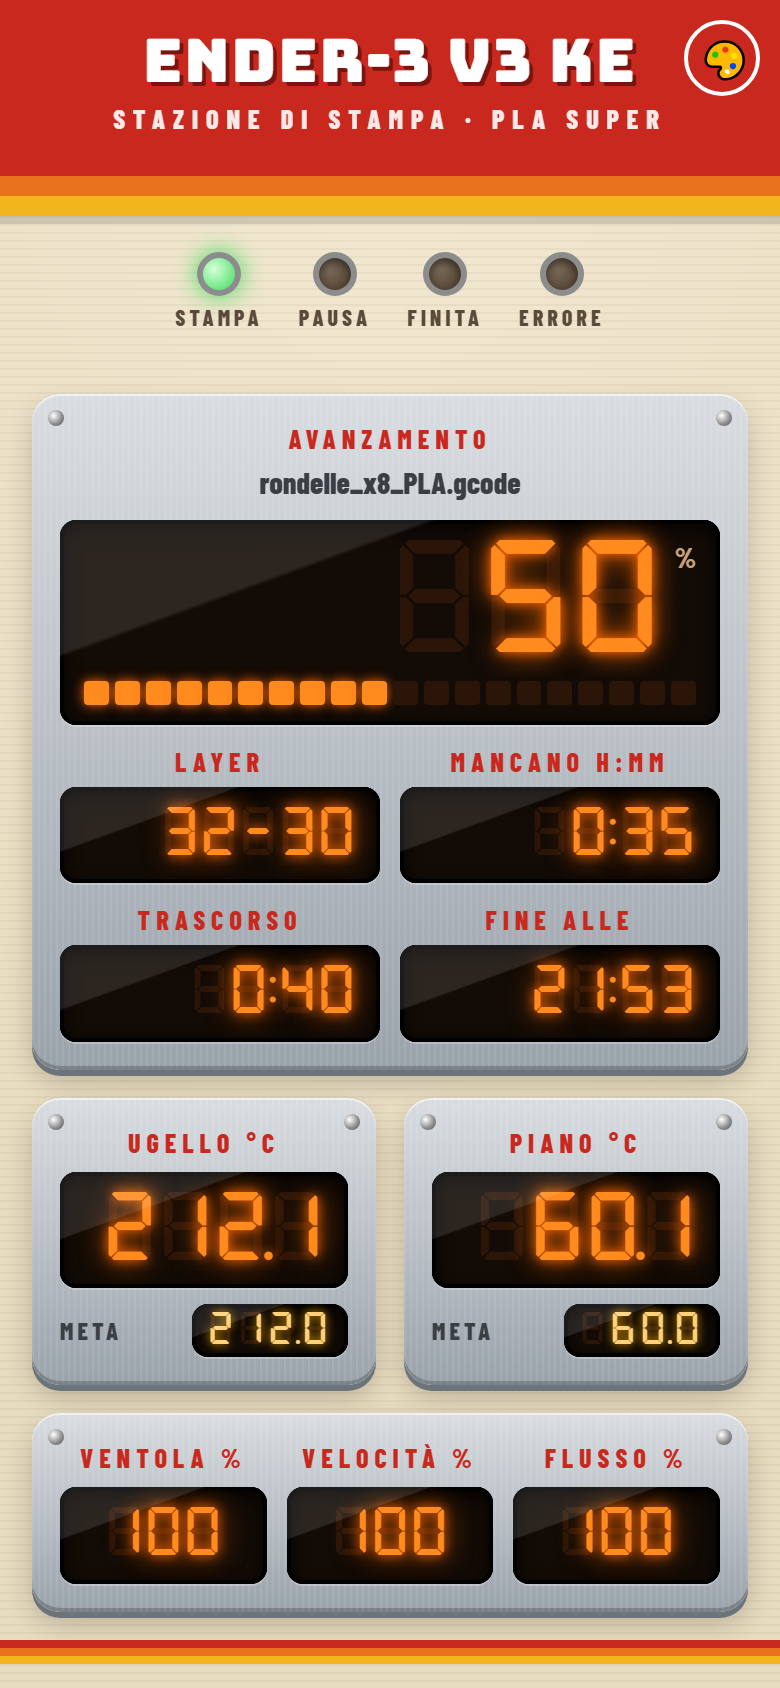
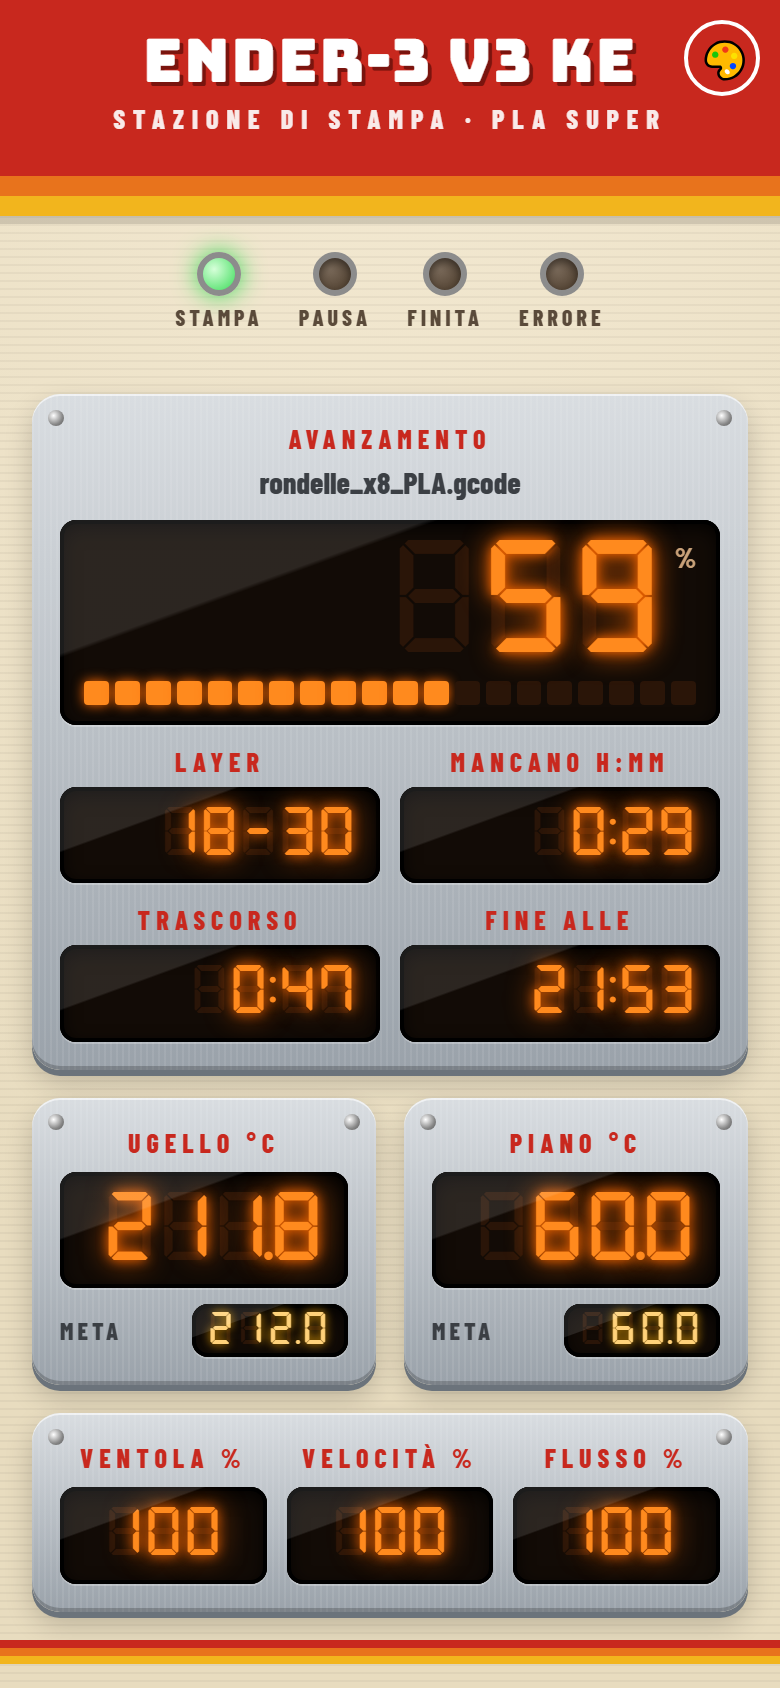
Layer corretto con i G-code di OrcaSlicer
Il firmware Creality, se non trova l'altezza layer nel G-code, calcola
il layer come Z / 0.1 mm e con layer da 0.2 mm il numero raddoppia
(es. 36 di 30). La pagina lo riconosce e stima il layer
dall'avanzamento sul totale. Schermate aggiornate.

diff --git a/index.html b/index.html
@@ -347,6 +347,21 @@ function lamps(st, err){
   $("l-err").classList.toggle("on", !!err || st === 3);
 }
 
+// Il firmware Creality, se nel G-code non trova l'altezza layer (es. file di OrcaSlicer),
+// calcola il layer come Z / 0.1 mm: con layer da 0.2 mm il numero raddoppia.
+// In quel caso stimiamo il layer dall'avanzamento sul totale (che invece e' giusto).
+function realLayer(p){
+  const L = num(s.layer), T = num(s.TotalLayer);
+  if (L == null || !T) return L ?? 0;
+  const z = num((String(s.curPosition || "").match(/Z:\s*(-?[\d.]+)/) || [])[1]);
+  const looksLikeZ = z != null && z > 0.5 && Math.abs(L - z * 10) <= 1.5;
+  if (looksLikeZ || L > T) {
+    if (s.state === 2) return T;                       // stampa finita
+    return Math.min(T, Math.max(1, Math.ceil(p / 100 * T)));
+  }
+  return Math.min(L, T);
+}
+
 function render(){
   const st = s.state, err = s.err && s.err.errcode;
   lamps(st, err);
@@ -355,7 +370,7 @@ function render(){
   const p = Math.max(0, Math.min(100, num(s.printProgress) ?? 0));
   seg("pct", p, 3);
   [...bar.children].forEach((b, i) => b.classList.toggle("on", i < Math.round(p / 5)));
-  seg("layer", (s.layer ?? 0) + "-" + (s.TotalLayer ?? 0));
+  seg("layer", realLayer(p) + "-" + (s.TotalLayer ?? 0));
   seg("left", hm(s.printLeftTime), 5);
   seg("job", hm(s.printJobTime), 5);
   const L = num(s.printLeftTime);

diff --git a/README.md b/README.md
@@ -72,6 +72,12 @@ Poi dal telefono apri `http://IP-DEL-PC` (per esempio `http://192.168.1.14`). Pu
 - **"stampante non raggiungibile":** l'IP della stampante è cambiato (DHCP). Riavvia il server con il nuovo IP, oppure fissa l'IP della stampante nel router.
 - **Su Linux la porta 80 richiede permessi:** usa una porta sopra 1024, per esempio `python server.py 192.168.1.12 8080`.
 
+## Il numero del layer
+
+Con i G-code di OrcaSlicer (e probabilmente di altri slicer diversi da Creality Print) il firmware non trova l'altezza layer e calcola il layer come **Z ÷ 0,1 mm**: con layer da 0,2 mm il numero va al doppio, e a metà stampa supera già il totale (es. "36 di 30"). Il totale dei layer invece lo legge giusto.
+
+La pagina se ne accorge (il numero della stampante coincide con Z × 10, oppure supera il totale) e in quel caso stima il layer dall'avanzamento sul totale. Con stampe dove ogni layer ha più o meno lo stesso lavoro la stima è precisa; con forme molto irregolari può sbagliare di qualche layer.
+
 ## Campi usati
 
 Dal websocket della stampante: `state`, `printFileName`, `printProgress`, `printJobTime`, `printLeftTime`, `layer`, `TotalLayer`, `nozzleTemp`, `targetNozzleTemp`, `bedTemp0`, `targetBedTemp0`, `modelFanPct`, `curFeedratePct`, `curFlowratePct`, `err`. Sono i nomi usati dal firmware Creality, non documentati ufficialmente: dovrebbe funzionare anche su altre stampanti Creality con lo stesso firmware (K1, K1C, K1 Max), ma l'ho provato solo sulla Ender-3 V3 KE.
